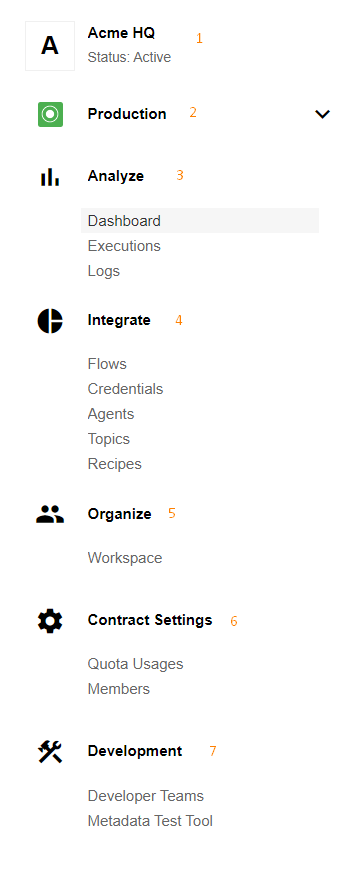
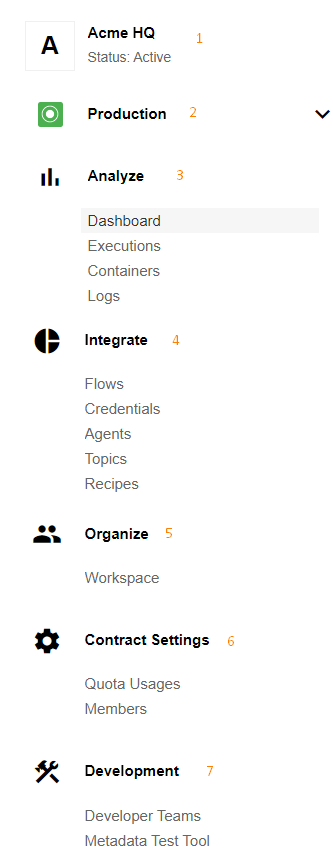
Container into Platform Tour

diff --git a/content/_getting-started/platform-tour.md b/content/_getting-started/platform-tour.md
@@ -57,6 +57,7 @@ This menu section links pages to help you monitor and debug your integration flo
 
 *   [Dashboard](#dashboard)
 *   [Executions](#executions)
+*   [Containers](#containers)
 *   [Logs](#logs)
 
 ### Dashboard
@@ -86,6 +87,37 @@ narrow down your search and navigate to the one you need.
 2.  The list of execution matching the selected criteria.
 
 ![Executions](/assets/img/getting-started/tour/executions.png "Executions")
+
+</details>
+
+### Containers
+
+The Containers menu item opens our Containers page. This page provides insights into containers and their components. By default, it displays today's log information, but users can expand the date range using the filtering and search features.
+
+<details close markdown="block"><summary><strong>Click to expand for more details.</strong></summary>
+
+Container logs are retained for up to 30 days. On the Containers page, you'll encounter the following states:
+
+* **Running** (Green Flag): Indicates that the container is currently operational.
+* **Finished** (Green Flag): Indicates that the container has been successfully shut down.
+* **Finished** (Red Flag): Suggests that the container has been stopped due to a registered error.
+* **Killed** (Green Flag): Signifies a successful termination of the container.
+* **Killed** (Red Flag): Indicates that the container was abruptly terminated by the operating system.
+
+{% include img.html max-width="100%" url="/assets/img/getting-started/tour/container-states.png" title="Container States" %}
+
+To access specific information for a container, simply click on the 'Step Name.' On the individual container page, you will find the following details:
+
+* **Status:** The current status of the container.
+* **Flow Name:** The name of the flow associated with this container. Clicking on the flow name opens the corresponding flow designer page.
+* **Start Date:** The date and time when the container started.
+* **Stop Date:** The date and time when the container stopped.
+* **Exit Code:** The current or last status code of the container.
+* **Reason:** A description of the current or last status code.
+* **Filtering:** Options for filtering the container's logs, including Search, Log Level, and Date Range.
+* **Details:** Log entries with Date/Time, Log Level, and Description.
+
+{% include img.html max-width="100%" url="/assets/img/getting-started/tour/container.png" title="Container" %}
 
 </details>
 
